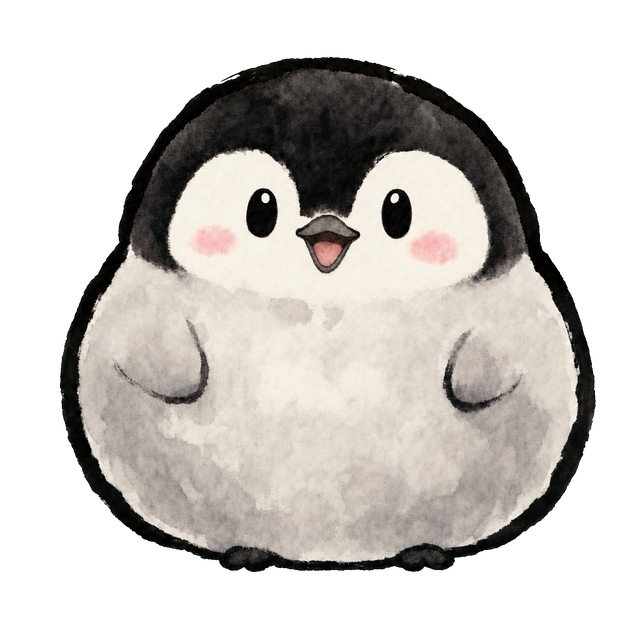
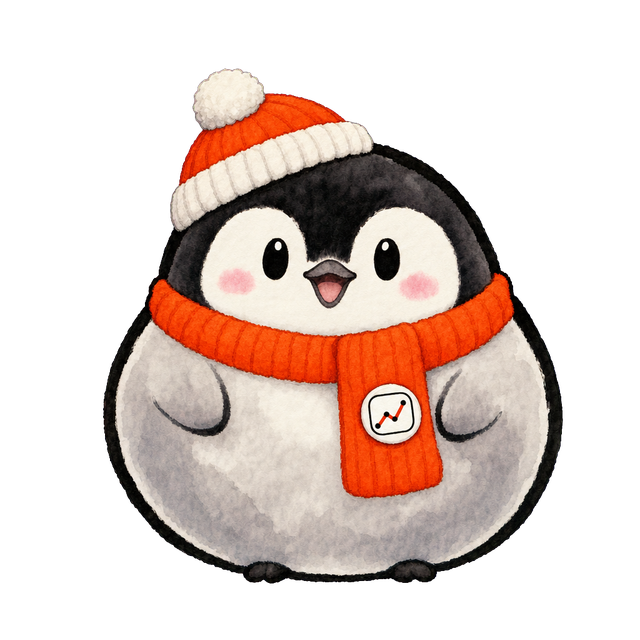
feat: branded mascot poses and image tool

diff --git a/tools/gen_image.py b/tools/gen_image.py
@@ -1,0 +1,57 @@
+"""视频配图：生成或登记，并记录来源与授权。每条视频用 1–2 张，只作氛围示意。
+用法：python tools/gen_image.py "深夜的电商办公室，桌上堆满表格" --id office-night
+      python tools/gen_image.py --register 图.jpg --id stock1 --source https://… --license CC0"""
+import argparse, datetime, io, json, sys
+from pathlib import Path
+from PIL import Image
+from _paths import ROOT
+import openai_images
+
+IMAGES_DIR = ROOT / "assets" / "images"
+SUFFIX = "。竖版构图，电影感光线，画面中不出现可辨认的真实人物面孔、品牌标志和文字。"
+W, H = 1080, 1920
+
+def _cover(im: Image.Image) -> Image.Image:
+    im = im.convert("RGB"); k = max(W / im.width, H / im.height)
+    im = im.resize((round(im.width * k), round(im.height * k)), Image.LANCZOS)
+    l, t = (im.width - W) // 2, (im.height - H) // 2
+    return im.crop((l, t, l + W, t + H))
+
+def _index(images_dir: Path) -> list:
+    p = images_dir / "index.json"
+    return json.loads(p.read_text(encoding="utf-8")) if p.is_file() else []
+
+def _save(images_dir: Path, im: Image.Image, entry: dict) -> dict:
+    idx = _index(images_dir)
+    if any(e["id"] == entry["id"] for e in idx): raise ValueError(f"配图编号已存在：{entry['id']}")
+    images_dir.mkdir(parents=True, exist_ok=True)
+    _cover(im).save(images_dir / entry["file"], quality=90)
+    idx.append(entry); (images_dir / "index.json").write_text(json.dumps(idx, ensure_ascii=False, indent=1), encoding="utf-8")
+    return entry
+
+def generate(prompt: str, id: str, images_dir: Path = IMAGES_DIR) -> dict:
+    images_dir = Path(images_dir)
+    if any(e["id"] == id for e in _index(images_dir)): raise ValueError(f"配图编号已存在：{id}")
+    png = openai_images.generate(prompt + SUFFIX, size="1024x1536")
+    return _save(images_dir, Image.open(io.BytesIO(png)), {"id": id, "file": f"{id}.jpg", "source": "generated", "model": openai_images.MODEL,
+                 "prompt": prompt, "license": "自有（模型生成）", "date": datetime.date.today().isoformat()})
+
+def register(file, id: str, source: str, license: str, images_dir: Path = IMAGES_DIR) -> dict:
+    if not (source or "").strip() or not (license or "").strip(): raise ValueError("外部图片必须写明来源和授权，否则不登记")
+    return _save(Path(images_dir), Image.open(file), {"id": id, "file": f"{id}.jpg", "source": source.strip(), "license": license.strip(),
+                 "date": datetime.date.today().isoformat()})
+
+def main(argv=None) -> int:
+    ap = argparse.ArgumentParser()
+    ap.add_argument("prompt", nargs="?"); ap.add_argument("--id", required=True)
+    ap.add_argument("--register"); ap.add_argument("--source", default=""); ap.add_argument("--license", default="")
+    ap.add_argument("--images-dir", default=str(IMAGES_DIR))
+    a = ap.parse_args(argv)
+    try:
+        e = register(a.register, a.id, a.source, a.license, Path(a.images_dir)) if a.register else generate(a.prompt, a.id, Path(a.images_dir))
+    except (ValueError, RuntimeError) as err:
+        print("✗", err); return 1
+    print("✓", e["file"]); return 0
+
+if __name__ == "__main__":
+    sys.exit(main())

diff --git a/tools/openai_images.py b/tools/openai_images.py
@@ -1,0 +1,51 @@
+"""OpenAI 图像接口的薄封装。Key 只从环境变量或 .env 文件读取，不打印、不写进脚本。"""
+import base64, json, os, time, urllib.error, urllib.request, uuid
+from pathlib import Path
+
+HERE = Path(__file__).resolve().parent
+MODEL = os.environ.get("IMAGE_MODEL", "gpt-image-2")
+API = "https://api.openai.com/v1/images/"
+
+def api_key(search_dirs=None) -> str:
+    k = os.environ.get("OPENAI_API_KEY")
+    if k: return k.strip()
+    for d in (search_dirs or [HERE, HERE.parent / ".secrets", Path.cwd()]):
+        d = Path(d)
+        if not d.is_dir(): continue
+        for f in sorted(d.glob("*.env")) + ([d / ".env"] if (d / ".env").is_file() else []):
+            for line in f.read_text(encoding="utf-8", errors="replace").splitlines():
+                if line.strip().startswith("OPENAI_API_KEY="):
+                    return line.split("=", 1)[1].strip().strip('"')
+    raise RuntimeError("缺少 OPENAI_API_KEY：请设置环境变量，或在 tools/ 下放一个写有 OPENAI_API_KEY=… 的 .env 文件")
+
+def _send(req) -> bytes:
+    last = ""
+    for attempt in range(3):               # 网络或服务端偶发错误时重试
+        try:
+            with urllib.request.urlopen(req, timeout=400) as r:
+                d = json.loads(r.read())
+            return base64.b64decode(d["data"][0]["b64_json"])
+        except urllib.error.HTTPError as e:
+            body = e.read().decode("utf-8", "replace")
+            try: last = json.loads(body)["error"]["message"]
+            except Exception: last = body[:300]
+            if e.code < 500 and e.code != 429: break
+        except Exception as e:
+            last = type(e).__name__ + ": " + str(e)[:200]
+        time.sleep(3 * (attempt + 1))
+    raise RuntimeError("生图失败：" + last)
+
+def generate(prompt: str, size: str = "1024x1536", quality: str = "high", model: str = None) -> bytes:
+    body = json.dumps({"model": model or MODEL, "prompt": prompt, "size": size, "quality": quality, "output_format": "png"}).encode()
+    return _send(urllib.request.Request(API + "generations", data=body,
+                 headers={"Authorization": "Bearer " + api_key(), "Content-Type": "application/json"}))
+
+def edit(images: list, prompt: str, size: str = "1024x1024", quality: str = "high", model: str = None) -> bytes:
+    b = uuid.uuid4().hex; parts = []
+    def field(name, value): parts.append(f'--{b}\r\nContent-Disposition: form-data; name="{name}"\r\n\r\n{value}\r\n'.encode())
+    for k, v in (("model", model or MODEL), ("prompt", prompt), ("size", size), ("quality", quality), ("output_format", "png")): field(k, v)
+    for i, p in enumerate(images):
+        parts.append(f'--{b}\r\nContent-Disposition: form-data; name="image[]"; filename="img{i}.png"\r\nContent-Type: image/png\r\n\r\n'.encode() + Path(p).read_bytes() + b"\r\n")
+    parts.append(f"--{b}--\r\n".encode())
+    return _send(urllib.request.Request(API + "edits", data=b"".join(parts),
+                 headers={"Authorization": "Bearer " + api_key(), "Content-Type": f"multipart/form-data; boundary={b}"}))

diff --git a/tests/test_gen_image.py b/tests/test_gen_image.py
@@ -1,0 +1,44 @@
+import io, json, pytest
+from PIL import Image
+import gen_image, openai_images
+class FakeAPI:
+    def __init__(self): self.last_prompt = None; self.calls = 0
+    def __call__(self, prompt, size="1024x1536", **kw):
+        self.last_prompt = prompt; self.calls += 1
+        b = io.BytesIO(); Image.new("RGB", (1024, 1536), (200, 120, 40)).save(b, "PNG"); return b.getvalue()
+@pytest.fixture
+def fake_api(monkeypatch):
+    f = FakeAPI(); monkeypatch.setattr(openai_images, "generate", f)
+    monkeypatch.setenv("OPENAI_API_KEY", "sk-test-secret-value"); return f
+def test_generated_image_is_indexed(tmp_path, fake_api):
+    e = gen_image.generate("深夜的电商办公室", "office-night", images_dir=tmp_path)
+    assert Image.open(tmp_path/"office-night.jpg").size == (1080, 1920)
+    idx = json.loads((tmp_path/"index.json").read_text(encoding="utf-8"))
+    assert idx == [e] and e["source"] == "generated" and e["license"] and e["file"] == "office-night.jpg" and e["prompt"] == "深夜的电商办公室"
+def test_prompt_gets_safety_suffix(tmp_path, fake_api):
+    gen_image.generate("仓库", "w", images_dir=tmp_path)
+    assert "真实人物" in fake_api.last_prompt and "品牌" in fake_api.last_prompt and fake_api.last_prompt.startswith("仓库")
+def test_duplicate_id_rejected(tmp_path, fake_api):
+    gen_image.generate("a", "x", images_dir=tmp_path)
+    with pytest.raises(ValueError): gen_image.generate("b", "x", images_dir=tmp_path)
+    assert fake_api.calls == 1
+def test_register_requires_source_and_license(tmp_path):
+    src = tmp_path/"p.jpg"; Image.new("RGB", (800, 600)).save(src)
+    with pytest.raises(ValueError): gen_image.register(src, "stock1", source="", license="CC0", images_dir=tmp_path/"i")
+    with pytest.raises(ValueError): gen_image.register(src, "stock1", source="https://x", license=" ", images_dir=tmp_path/"i")
+    assert not (tmp_path/"i"/"index.json").exists()
+def test_register_external_image(tmp_path):
+    src = tmp_path/"p.jpg"; Image.new("RGB", (800, 600)).save(src)
+    e = gen_image.register(src, "stock1", source="https://example.com/p", license="CC0", images_dir=tmp_path/"i")
+    assert Image.open(tmp_path/"i"/"stock1.jpg").size == (1080, 1920) and e["source"] == "https://example.com/p" and e["license"] == "CC0"
+def test_key_never_printed(tmp_path, fake_api, capsys):
+    gen_image.main(["仓库", "--id", "k", "--images-dir", str(tmp_path)])
+    out = capsys.readouterr(); assert "sk-" not in out.out + out.err
+def test_key_read_from_env_file(tmp_path, monkeypatch):
+    monkeypatch.delenv("OPENAI_API_KEY", raising=False)
+    (tmp_path/"my key.env").write_text("OPENAI_API_KEY=sk-from-file\n", encoding="utf-8")
+    assert openai_images.api_key(search_dirs=[tmp_path]) == "sk-from-file"
+def test_missing_key_message_has_no_secret(tmp_path, monkeypatch):
+    monkeypatch.delenv("OPENAI_API_KEY", raising=False)
+    with pytest.raises(RuntimeError) as e: openai_images.api_key(search_dirs=[tmp_path])
+    assert "OPENAI_API_KEY" in str(e.value)

diff --git a/tools/mascot_outfit.py b/tools/mascot_outfit.py
@@ -1,0 +1,25 @@
+"""给吉祥物的某个姿势穿上固定装扮（橙色毛线帽 + 橙色围巾），输出品红底图，再用 key.py 抠图。
+用法：python tools/mascot_outfit.py <无装扮姿势.png> <装扮参考图.png> <输出.png>"""
+import io, sys
+from pathlib import Path
+from PIL import Image
+import openai_images
+
+PROMPT = ("Edit the FIRST image. Keep this exact same single character: identical pose, wing positions, held props, facial expression, body shape, "
+          "proportions, black ink outline and soft watercolor painting style. Remove any small decorative marks floating around the character. "
+          "Add only two clothing items, copied exactly from the character in the SECOND image: "
+          "(1) an orange chunky rib-knit beanie with a cream-white folded ribbed brim and a cream-white pom-pom on top, worn tilted on the head; "
+          "(2) an orange rib-knit scarf wrapped around the neck with one end hanging down the chest, and on that hanging end a small round white badge "
+          "showing a tiny red zig-zag line-chart icon. The orange is a vivid red-orange (#FF4D1A). "
+          "Exactly one character, one front-facing view, centered, full body with generous margin on all sides, nothing cropped. "
+          "No sparkle stars, no text, no ground shadow. Background: one completely flat uniform pure magenta (#FF00FF), no gradient.")
+
+def on_magenta(src: Path) -> bytes:
+    im = Image.open(src).convert("RGBA"); side = int(max(im.size) * 1.25)
+    bg = Image.new("RGBA", (side, side), (255, 0, 255, 255)); bg.alpha_composite(im, ((side - im.width) // 2, (side - im.height) // 2))
+    b = io.BytesIO(); bg.convert("RGB").resize((1024, 1024), Image.LANCZOS).save(b, "PNG"); return b.getvalue()
+
+if __name__ == "__main__":
+    pose, ref, out = map(Path, sys.argv[1:4])
+    tmp = out.with_suffix(".in.png"); tmp.write_bytes(on_magenta(pose))
+    out.write_bytes(openai_images.edit([tmp, ref], PROMPT, size="1024x1024")); tmp.unlink(); print("ok", out)

diff --git a/tools/mascot_finish.py b/tools/mascot_finish.py
@@ -1,0 +1,32 @@
+"""把品红底的姿势图抠成透明底，统一放到 640×640 画布上（脚底对齐同一高度）。
+用法：python tools/mascot_finish.py <品红底图目录> <输出目录>"""
+import sys
+from pathlib import Path
+import numpy as np
+from PIL import Image
+from scipy import ndimage
+
+SIZE, FEET_Y = 640, 582          # 引擎按画布高度的 89% 对齐脚底，脚底最低点略低于这条线
+
+def cutout(src: Path) -> Image.Image:
+    a = np.array(Image.open(src).convert("RGB")).astype(float); R, G, B = a[..., 0], a[..., 1], a[..., 2]
+    m = np.minimum(R, B) - G
+    alpha = 1 - np.clip((m - 70) / 100, 0, 1)
+    solid = alpha > 0.5; lab, n = ndimage.label(solid); sz = ndimage.sum(solid, lab, range(1, n + 1))
+    keep = np.isin(lab, [i + 1 for i, s in enumerate(sz) if s > 0.02 * sz.max()])
+    alpha = np.where(ndimage.binary_dilation(keep, iterations=3), alpha, 0)
+    k = np.clip(m, 0, None) * ndimage.binary_dilation(alpha < 0.99, iterations=4)   # 边缘去品红溢色
+    a[..., 0] -= k; a[..., 2] -= k
+    return Image.fromarray(np.dstack([np.clip(a, 0, 255), alpha * 255]).astype(np.uint8), "RGBA")
+
+def finish(src: Path, dst: Path) -> None:
+    im = cutout(src); im = im.resize((SIZE, SIZE), Image.LANCZOS)
+    al = np.asarray(im)[..., 3]; rows = np.flatnonzero(al.max(axis=1) > 128); cols = np.flatnonzero(al.max(axis=0) > 128)
+    dy = FEET_Y - rows[-1]
+    out = Image.new("RGBA", (SIZE, SIZE), (0, 0, 0, 0)); out.alpha_composite(im.crop((0, max(0, -dy), SIZE, SIZE - max(0, dy))), (0, max(0, dy)))
+    arr = np.array(out); arr[:8, :, 3] = 0; arr[-8:, :, 3] = 0; arr[:, :8, 3] = 0; arr[:, -8:, 3] = 0
+    Image.fromarray(arr, "RGBA").save(dst)
+
+if __name__ == "__main__":
+    src, dst = Path(sys.argv[1]), Path(sys.argv[2]); dst.mkdir(parents=True, exist_ok=True)
+    for f in sorted(src.glob("*.png")): finish(f, dst / f.name); print("ok", f.name)

diff --git a/tests/test_mascot.py b/tests/test_mascot.py
@@ -1,0 +1,18 @@
+import numpy as np
+from PIL import Image
+POSES = ["base","talk","blink","phone","point","cheer","shock","clip","wave"]
+def load(root, p): return np.asarray(Image.open(root/"assets/mascot"/f"{p}.png").convert("RGBA")).astype(int)
+def test_all_poses_present_same_canvas(root):
+    assert {Image.open(root/"assets/mascot"/f"{p}.png").size for p in POSES} == {(640, 640)}
+def test_poses_are_transparent_at_corners(root):
+    for p in POSES:
+        a = load(root, p)[..., 3]; assert a[:6,:6].max() == 0 and a[:6,-6:].max() == 0 and a[-6:,:6].max() == 0 and a[-6:,-6:].max() == 0, p
+def test_poses_wear_orange(root):
+    for p in POSES:
+        x = load(root, p); r, g, b, a = x[...,0], x[...,1], x[...,2], x[...,3]
+        orange = (a > 200) & (r > 200) & (g > 50) & (g < 150) & (b < 90)
+        assert orange.sum() / max(1, (a > 200).sum()) > 0.03, p
+def test_no_magenta_fringe(root):
+    for p in POSES:
+        x = load(root, p); r, g, b, a = x[...,0], x[...,1], x[...,2], x[...,3]
+        assert ((a > 60) & (r > 200) & (b > 200) & (g < 90)).sum() < 40, p
